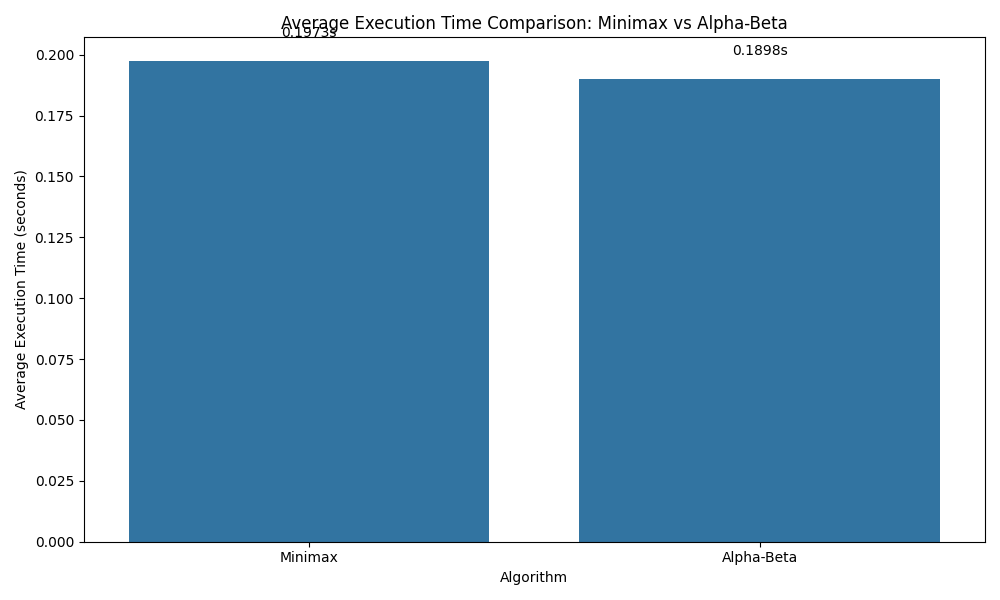
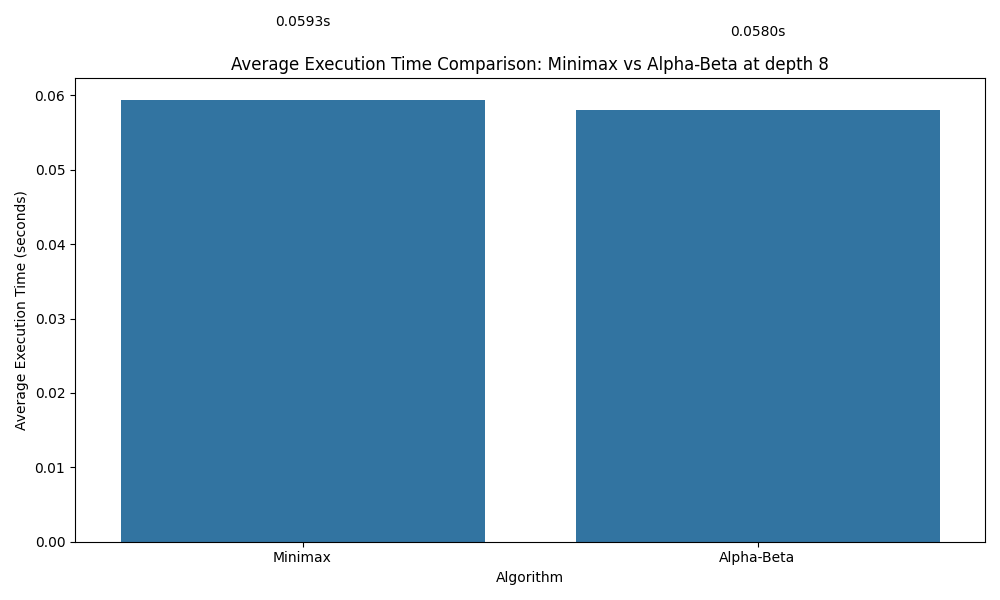
fixed exp1

diff --git a/othello/benchmarks/experiments.py b/othello/benchmarks/experiments.py
@@ -124,10 +124,10 @@ def run_experiment1(num_games=200):
         if i < num_games // 2:
             game_result = run_game(
                 white_ai_mode="ab",
-                white_ai_depth=8,
+                white_ai_depth=4,
                 white_ai_heuristic="corners_captured",
                 black_ai_mode="minimax",
-                black_ai_depth=8,
+                black_ai_depth=4,
                 black_ai_heuristic="corners_captured",
                 board_size=6,
             )
@@ -135,10 +135,10 @@ def run_experiment1(num_games=200):
         else:
             game_result = run_game(
                 white_ai_mode="minimax",
-                white_ai_depth=8,
+                white_ai_depth=4,
                 white_ai_heuristic="corners_captured",
                 black_ai_mode="ab",
-                black_ai_depth=8,
+                black_ai_depth=4,
                 black_ai_heuristic="corners_captured",
                 board_size=6,
             )
@@ -199,7 +199,8 @@ def run_experiment1(num_games=200):
     with open("experiment1_results.csv", "w", newline="") as csvfile:
         fieldnames = [
             "game_number",
-            "depth",
+            "black_ai_depth",
+            "white_ai_depth",
             "black_ai_mode",
             "black_ai_heuristic",
             "white_ai_mode",
@@ -207,8 +208,9 @@ def run_experiment1(num_games=200):
             "black_score",
             "white_score",
             "winner",
-            "turns",
-            "execution_time",
+            "total_turns",
+            "avg_black_execution_time",
+            "avg_white_execution_time",
             "total_runtime",
         ]
         writer = csv.DictWriter(csvfile, fieldnames=fieldnames)
@@ -458,8 +460,8 @@ def main():
     print("Starting Othello AI experiments...")
 
     # Experiment 1
-    # exp1_results = run_experiment1(num_games=20)
-    # print(f"Experiment 1 completed with {len(exp1_results)} games.")
+    exp1_results = run_experiment1(num_games=2)
+    print(f"Experiment 1 completed with {len(exp1_results)} games.")
 
     # Experiment 2
     # exp2_results = run_experiment2()
@@ -470,8 +472,8 @@ def main():
     # print(f"Experiment 3 completed with {len(exp3_results)} games.")
 
     # Experiment 4
-    exp4_results = run_experiment4()
-    print(f"Experiment 4 completed with {len(exp4_results)} games.")
+    # exp4_results = run_experiment4()
+    # print(f"Experiment 4 completed with {len(exp4_results)} games.")
 
     print("All experiments completed! Run visualize.py to create appropriate graphs")
 

diff --git a/othello/benchmarks/visualize.py b/othello/benchmarks/visualize.py
@@ -3,7 +3,7 @@ import matplotlib.pyplot as plt
 import numpy as np
 import seaborn as sns
 
-from othello.othello.parser import AIHeuristic
+from othello.parser import AIHeuristic
 
 
 def create_experiment1_visualizations(csv_path="experiment1_results.csv"):
@@ -57,7 +57,7 @@ def create_experiment1_visualizations(csv_path="experiment1_results.csv"):
     # Add labels and title
     plt.xlabel("Algorithm")
     plt.ylabel("Average Execution Time (seconds)")
-    plt.title("Average Execution Time Comparison: Minimax vs Alpha-Beta")
+    plt.title("Average Execution Time Comparison: Minimax vs Alpha-Beta at depth 8")
 
     # Add the actual values on top of each bar
     for i, v in enumerate(avg_times):
@@ -85,6 +85,54 @@ def line_graph_depth(csv_path="experiment4_results.csv"):
     plt.legend()
     plt.grid(True)
     plt.savefig("alpha_beta_time_by_depth.png")
+    plt.show()
+
+
+def plot_exp4(results, filename="alpha_beta_time_by_depth.png"):
+    """
+    Plot the Alpha-Beta time by depth for different heuristics
+
+    Args:
+        results: Dictionary in format {heuristic: {depth: avg_time}}
+        filename: Where to save the plot image
+    """
+    plt.figure(figsize=(10, 6))
+
+    # Define colors/markers for each heuristic for consistent plotting
+    styles = {
+        "corners_captured": {"color": "blue", "marker": "o"},
+        "coin_parity": {"color": "green", "marker": "s"},
+        "mobility": {"color": "red", "marker": "^"},
+        "all_in_one": {"color": "purple", "marker": "D"},
+    }
+
+    for heuristic in results:
+        depths = sorted(results[heuristic].keys())
+        times = [results[heuristic][d] for d in depths]
+
+        plt.plot(
+            depths,
+            times,
+            label=heuristic,
+            marker=styles[heuristic]["marker"],
+            color=styles[heuristic]["color"],
+            linestyle="-",
+            linewidth=2,
+            markersize=8,
+        )
+
+    plt.title("Alpha-Beta Time by Depth", fontsize=14)
+    plt.xlabel("Depth", fontsize=12)
+    plt.ylabel("Time (seconds)", fontsize=12)
+    plt.legend(fontsize=10)
+    plt.grid(True, linestyle="--", alpha=0.7)
+
+    # Adjust x-axis to show integer depths only
+    plt.xticks(range(1, 11))
+
+    # Save and show
+    plt.tight_layout()
+    plt.savefig(filename, dpi=300)
     plt.show()
 
 
